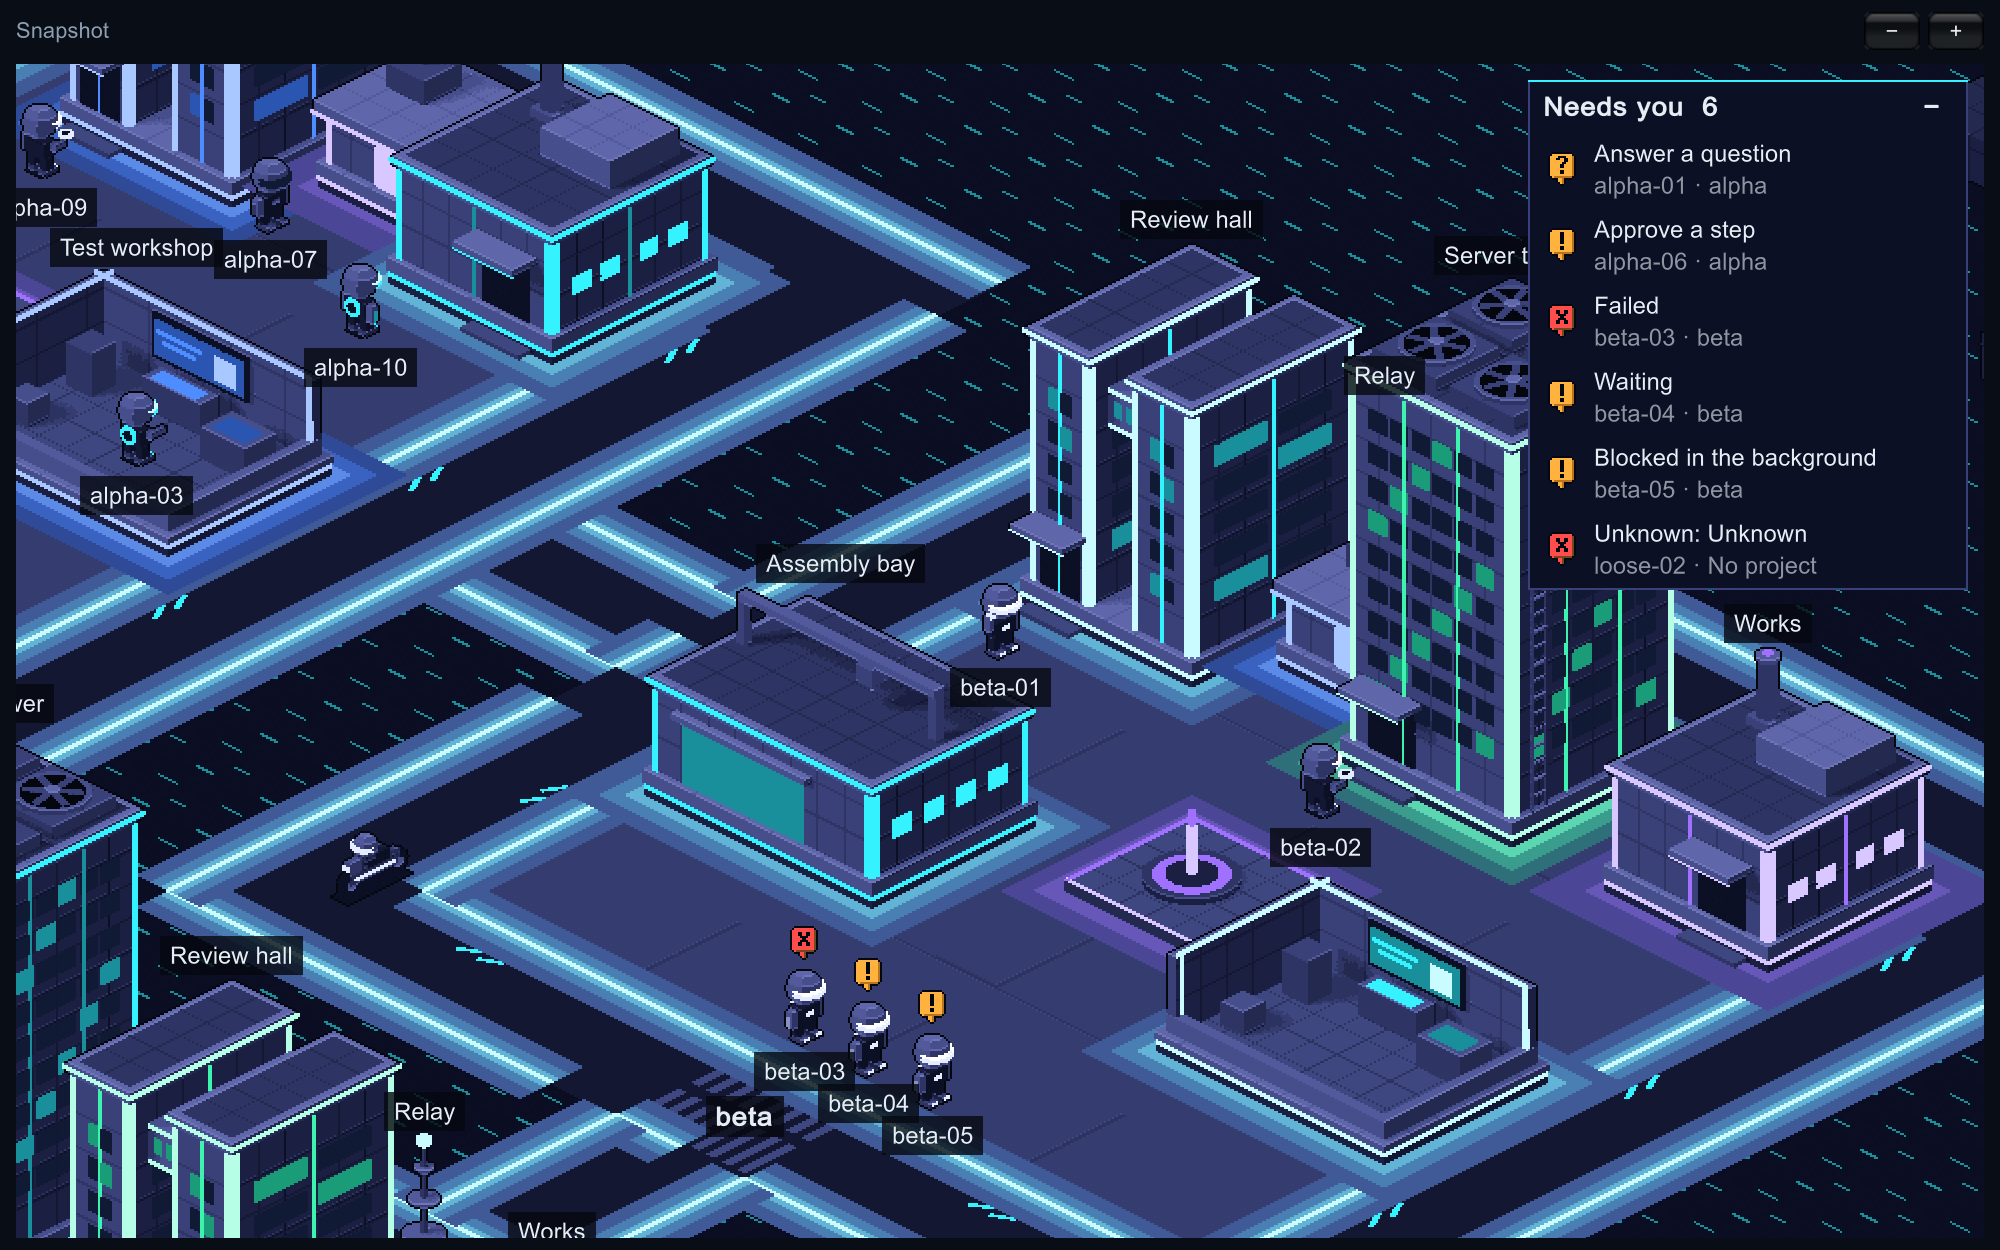
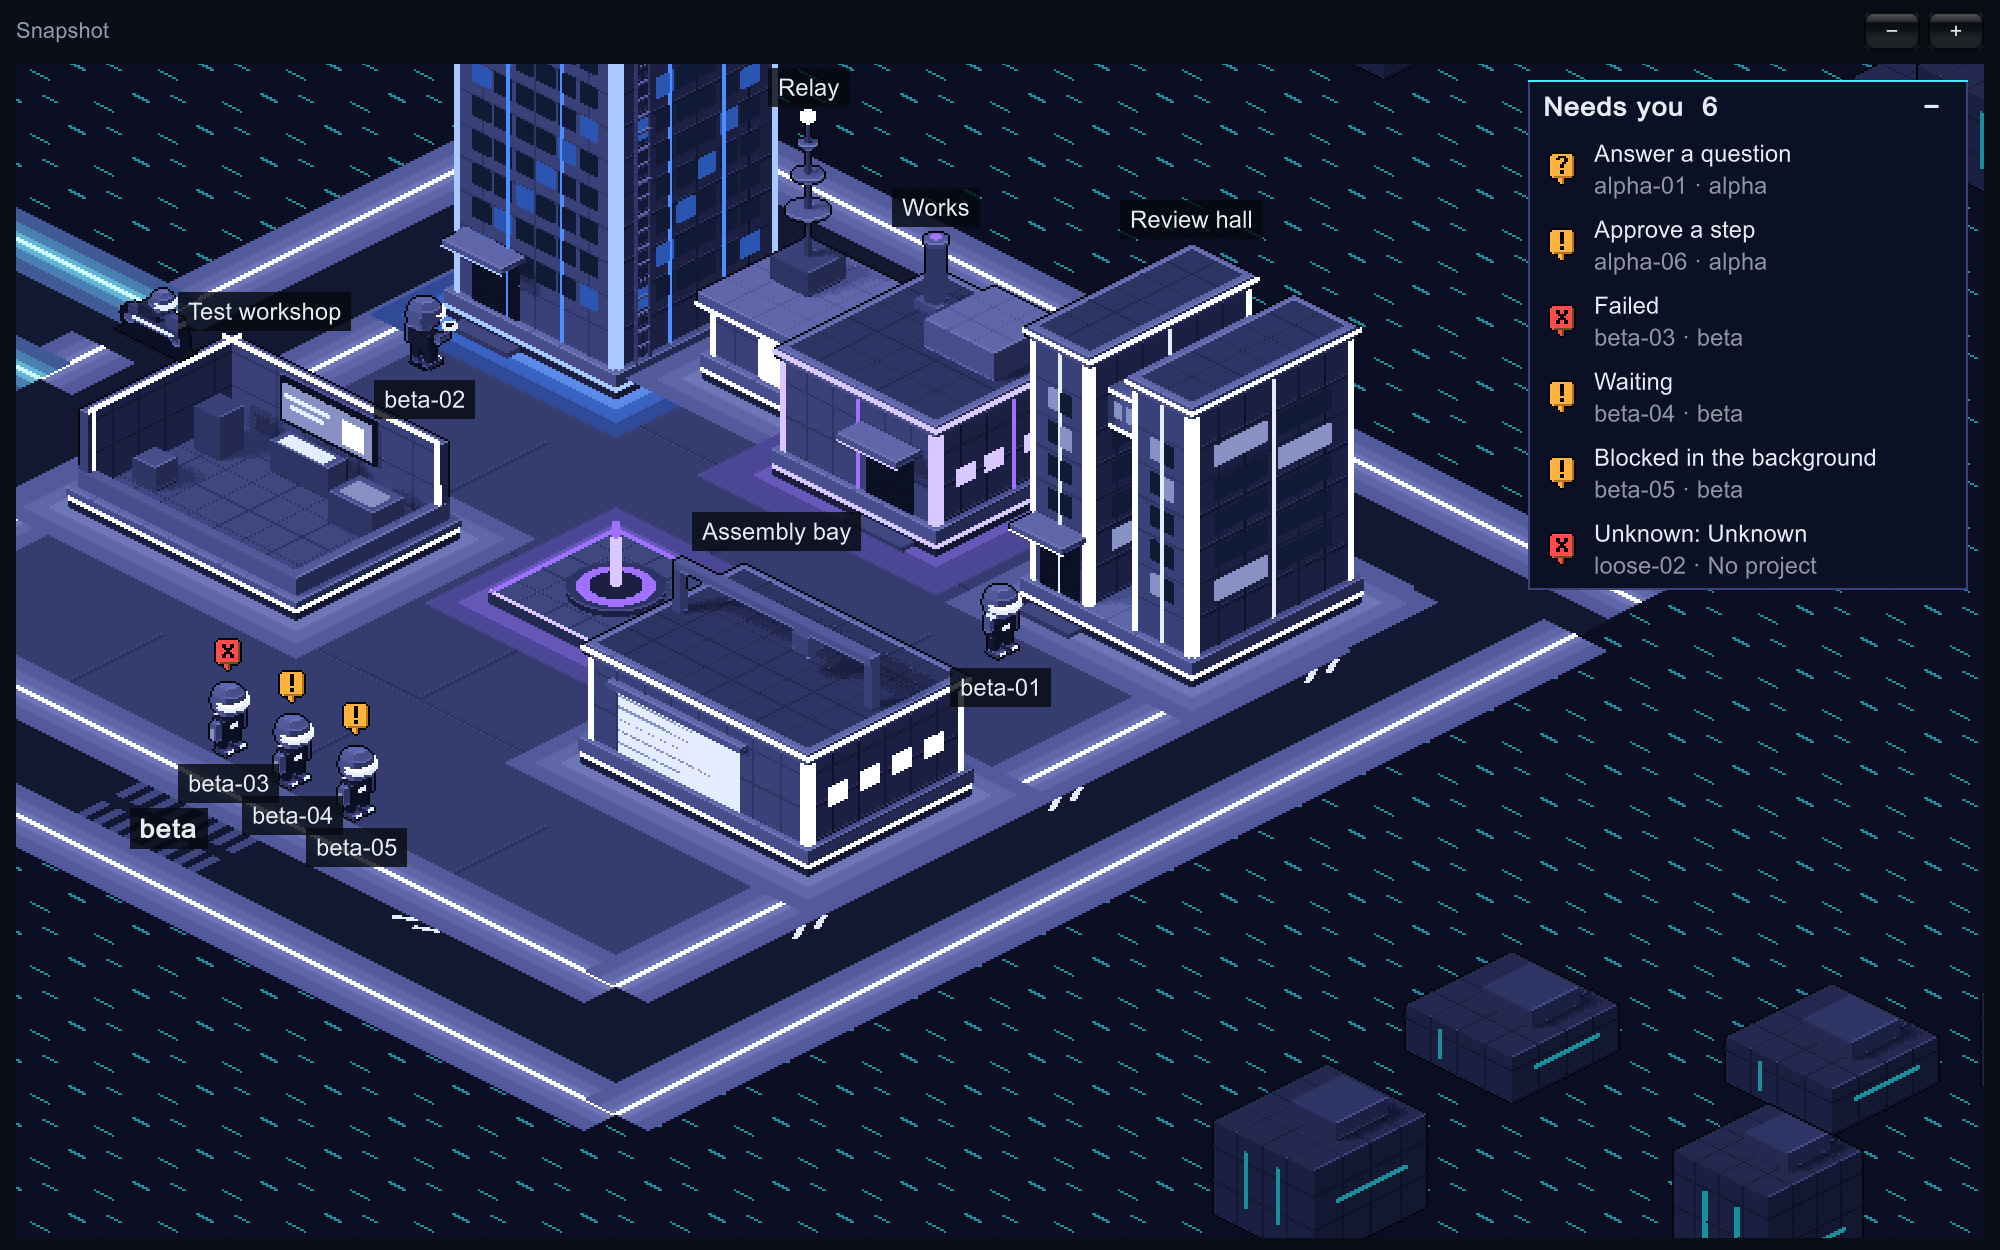
GRID-27: docs and pictures for regions; the courier picture is taken where the bike comes off the road

diff --git a/Assets/TheGrid/RosterApp.cs b/Assets/TheGrid/RosterApp.cs
@@ -111,9 +111,10 @@ namespace TheGrid
             world.LookAtAll();
             if (showArrivals)
             {
-                // The courier is caught part of the way; its recipient pulses for nine tenths of a second once it arrives.
+                // The courier is caught near the end of its way, where in the sample world it comes off the road onto the recipient's
+                // lane; its recipient pulses for nine tenths of a second once it arrives.
                 world.LookAt(lastRecipient);   // close enough to make out the bike
-                yield return new WaitForSecondsRealtime(Mathf.Max(0f, rideEnds - longestRide * .2f - Time.unscaledTime));
+                yield return new WaitForSecondsRealtime(Mathf.Max(0f, rideEnds - longestRide * .175f - Time.unscaledTime));
                 yield return Shot("courier.png");
                 yield return new WaitForSecondsRealtime(Mathf.Max(0f, rideEnds + .2f - Time.unscaledTime));   // a picture takes two more frames
                 yield return Shot("pulse.png");

diff --git a/README.md b/README.md
@@ -30,7 +30,7 @@ The first time a build runs, macOS asks whether The Grid can access folders such
 
 Each row shows the state (question, permission, done, running and so on), what a running agent is doing (reading, editing, testing, reviewing, or just working when it cannot be told), the session name, its account, how long it has been in that state, the repo, the ticket read from the branch name, the pull request, and the workspace. Click the pull request to open it. Click the workspace to move the repo to the next one.
 
-Settings live in `~/Library/Application Support/DefaultCompany/The Grid/settings.json`, created on first launch. Edit the file to add workspaces; the app re-reads it the next time you click a workspace.
+Settings live in `~/Library/Application Support/DefaultCompany/The Grid/settings.json`, created on first launch. Edit the file to add workspaces; the app re-reads it the next time you click a workspace or a region's name.
 
 | Field | Meaning |
 |---|---|
@@ -38,6 +38,7 @@ Settings live in `~/Library/Application Support/DefaultCompany/The Grid/settings
 | `claudePath` | Path to the `claude` program. Empty means look in `~/.local/bin`, `/opt/homebrew/bin` and `/usr/local/bin` |
 | `workspaces` | Workspace names, in the order a click cycles through them. Starts as `Personal` |
 | `repoWorkspaces` | Which repo belongs to which workspace. A repo not listed is `Personal` |
+| `workspaceLights` | The light of a workspace's region in the world: `cyan`, `white`, `rose`, `mint`, `violet`, `blue` or `ember`. A workspace not listed takes its place in `workspaces`: the first is cyan, the second white, and so on |
 
 ## The review pile
 
@@ -57,7 +58,9 @@ The shape of the data the window draws is described in [docs/roster-snapshot.md]
 
 **World** shows the same agents as the roster, as bots in a city. Every repo gets a sector on one isometric map, and the map grows as new repos turn up. A bot stands at the building that matches the work its agent is doing, and walks to another when that changes. Nothing else moves, except the badge that bounces over every bot that needs you.
 
-Every sector has the same six buildings and a fountain, but no two beside each other look alike: the buildings stand in a different order, and each is lit in its own colour (white, cyan, blue, mint or violet). A sector's look belongs to its repo and is the same every time. Sectors stand apart, with open ground between them and a short link of road joining each to its neighbours.
+Every sector has the same six buildings and a fountain, but no two beside each other look alike: the buildings stand in a different order. Sectors stand apart, with open ground between them and a short link of road joining each to its neighbours.
+
+Each workspace has a **region** of the map to itself. Its sectors stand together, and a wider stretch of open ground, at least one sector across, lies between one region and the next, with a road over it. A region has a light of its own: its lanes, the lines on its ground and most of its buildings carry it, and a few buildings in every sector carry one of two accent colours instead. The open ground between and beyond the regions is the same everywhere. With one workspace there is one region, and the map is one spiral of sectors.
 
 ![One sector, close up](docs/art/world-near.png)
 
@@ -83,13 +86,13 @@ Anything else is shown on the bot itself, wherever it stands:
 
 Bots that need you stand in the open at the front of their sector, done ones by the fountain, offline ones in front of the relay. The view opens on the first sector with a bot that needs you, close enough to follow one bot from a doorway to a workstation; in a small window it makes sure that bot is in view.
 
-![Every sector, far out](docs/art/world-far.png)
+![Three workspaces, far out: a region each, in its own light](docs/art/world-far.png)
 
-A lane runs round every sector, and links cross the open ground to the lanes of its neighbours, so the roads of the whole map join up. Past the last sector the city carries on to the edge of the window as dark blocks. Lanes, links and blocks are scenery, worked out from where the sectors are; they say nothing about any agent.
+A lane runs round every sector, links cross the open ground to the lanes of its neighbours, and a road joins every two regions that stand side by side, so the roads of the whole map join up. Past the last sector the city carries on to the edge of the window as dark blocks. Lanes, links, roads and blocks are scenery, worked out from where the sectors are; they say nothing about any agent.
 
 - **Move:** drag, or scroll with two fingers.
 - **Zoom:** the **−** and **+** buttons, the `-` and `+` keys, or scroll while holding Command. There are five levels, each double the last.
-- **Far out,** each sector shows its name, how many bots need you and how many are done. **Closer in,** buildings and bots are named; where the two would overlap, the bot's name wins. The colour of a bot's light (blue, white or orange) is its account: an account gets the next colour the first time it is seen, and keeps it. Small bots beside a bot are its subagents.
+- **Far out,** each sector shows its name, how many bots need you and how many are done, and with more than one workspace each region shows its workspace's name. Click a region's name to give it the next light; the choice is kept in `settings.json`. **Closer in,** buildings and bots are named; where the two would overlap, the bot's name wins. The colour of a bot's light (blue, white or orange) is its account: an account gets the next colour the first time it is seen, and keeps it. Small bots beside a bot are its subagents.
 - **Click a bot** to see its card.
 
 Two panels lie over the map, down its right side:
@@ -99,13 +102,13 @@ Two panels lie over the map, down its right side:
 
 ![A narrow window: the list folded, the card across the bottom](docs/art/world-narrow.png)
 
-When a message from one agent reaches another, the world shows it arriving. Between two sectors a courier on a bike, in the sender's colours, rides the lanes and links from the sender's crossing to the recipient's; then a ring of violet light pulses under the recipient. Within one sector there is only the pulse. While it lasts the recipient holds a hand to its helmet. A courier is drawn over buildings, so you can follow it the whole way.
+When a message from one agent reaches another, the world shows it arriving. Between two sectors a courier on a bike, in the sender's colours, rides the lanes, links and roads from the sender's crossing to the recipient's; then a ring of violet light pulses under the recipient. Within one sector there is only the pulse. While it lasts the recipient holds a hand to its helmet. A courier is drawn over buildings, so you can follow it the whole way.
 
-![A courier arriving at a sector](docs/art/world-courier.png)
+![A courier coming off the road between two regions](docs/art/world-courier.png)
 
 The Grid only shows deliveries: it sends nothing and holds nothing back. A message is shown once, if it was received after you opened the world and both its sender and its recipient are bots on the map. The review pile has every message, shown or not.
 
-Which repo has which sector, and which account has which colour, is kept in `world.json` beside `settings.json`. A repo keeps its place and an account its colour for good, also after their sessions are gone; delete the file to start the map again. If its contents are damaged it is kept as `world.json.bad` and the map starts empty.
+Which repo has which sector, where it stands in its region, and which account has which colour, is kept in `world.json` beside `settings.json`. A repo keeps its place in its region and an account its colour for good, also after their sessions are gone; delete the file to start the map again. Move a repo to another workspace and its sector moves to that region, to the first free place there; no other sector changes its place in its region. A whole region shifts only when one of the regions grows past the square it stood in. If its contents are damaged it is kept as `world.json.bad` and the map starts empty.
 
 To look at the world without any agent sessions, start the app on a roster snapshot file. It then reads no agent data and writes nothing:
 

diff --git a/docs/art-direction.md b/docs/art-direction.md
@@ -33,8 +33,11 @@ The Grid is a virtual city where each repository occupies a sector and each codi
 7. **A bot carries a ring of light on its back.** The bot that inspects holds that disc in its hand, and its back is bare.
 8. **A bot's light comes in blue, white and orange.** In the picture it is three marker colours (the light, its highlight, its dim partner), and the game swaps them. Orange is redder than the amber of a badge, so a badge is still the only amber thing on a bot.
 9. **Sectors stand apart.** Each has its own lane round it. Between one sector's lane and the next's lies open, dark ground that belongs to neither, crossed by one short link of road on each side. Seen from far out, every sector can be told from its neighbours at a glance.
-10. **Sectors differ.** Every sector has the same six buildings and the fountain. Where they stand differs from sector to sector, and so does the light each building carries: white, cyan, blue, mint or violet. The fountain is violet everywhere. A sector's arrangement and lights follow from its place on the map, so it looks the same every time, and unlike every sector round it.
+10. **Sectors differ.** Every sector has the same six buildings and the fountain. Where they stand differs from sector to sector, and so does which of its buildings carry an accent light (rule 12). The fountain is violet everywhere. A sector's arrangement follows from its place on the map, so it looks the same every time, and unlike every sector round it.
 11. **In every arrangement no bot is hidden.** Tall buildings stand along the back; the two low ones stand far enough forward that a bot at a back door is seen over their roofs; bots that need the owner stand in the open at the front, seen whole. `LayoutTests` proves it for every arrangement and every neighbour.
+
+12. **A region has a light of its own.** The sectors of one workspace stand together as a region. Each region has a look: a primary light, carried by its lanes, the lines on its ground and at least half the buildings of every sector, and two accent lights, each carried by one or two buildings of a sector. All the lights on one building are still one colour. The looks are cyan, white, rose, mint, violet, blue and ember, in the order workspaces take them; the owner can give a region another. No look is amber or red: amber means a bot needs the owner, red a fault. `Lights.cs` has the colours.
+13. **Only a sector gives off its region's colour.** Open ground, the dashes on it, the dark blocks beyond the map and the roads between regions look the same everywhere, in the light the ground is drawn in. Between two regions lies open ground at least one sector across, with nothing standing on it, wider than the ground between two sectors of one region.
 
 ## What stays from before
 
@@ -44,4 +47,4 @@ The Grid is a virtual city where each repository occupies a sector and each codi
 
 ## Words
 
-In code and in the window: a repo's area is a **sector**, a session's figure is a **bot**, the road round a sector is the **lane**, the vehicle is a **bike**.
+In code and in the window: a repo's area is a **sector**, a workspace's group of sectors is a **region**, a session's figure is a **bot**, the road round a sector is the **lane**, the vehicle is a **bike**.

diff --git a/tools/art/README.md b/tools/art/README.md
@@ -66,7 +66,7 @@ Unity's import settings are set by `Assets/TheGrid/Editor/ArtImport.cs`, which t
    ```
 
 2. Call it from `make()`.
-3. Render and look at the contact sheet. Every building is drawn in the same light: `"cyanw"` lines, `"cyan"` dimmer lines, `"teal"` windows, cyan glow. The game swaps those six colours for another family's in each sector (`Assets/TheGrid/Core/Lights.cs`), so use no other light colour on a building, or the swap will leave it behind. Keep windows clear of the lines `shaft` draws up a wall. If the building is taller than before, raise its number in `Layout.Wall`; a test tells you.
+3. Render and look at the contact sheet. Every building is drawn in the same light: `"cyanw"` lines, `"cyan"` dimmer lines, `"teal"` windows, cyan glow. The game swaps those six colours for another family's (`Assets/TheGrid/Core/Lights.cs`): the primary light of the sector's region, or one of its accents. It does the same to the lines of light on the ground and the chevrons on a lane. So use no other light colour on a building, or the swap will leave it behind. A new family's colours go in `PALETTE` in `kit.py` as well, though no picture is drawn in them. Keep windows clear of the lines `shaft` draws up a wall. If the building is taller than before, raise its number in `Layout.Wall`; a test tells you.
 
 Keep the building, and the glow round it, inside its picture. The tests fail if a pixel touches the edge.
 
